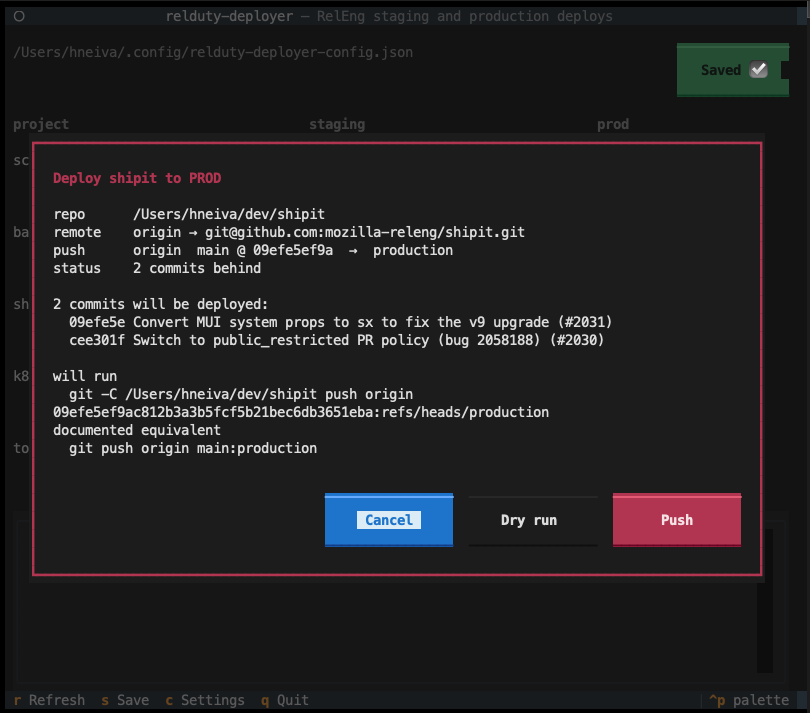
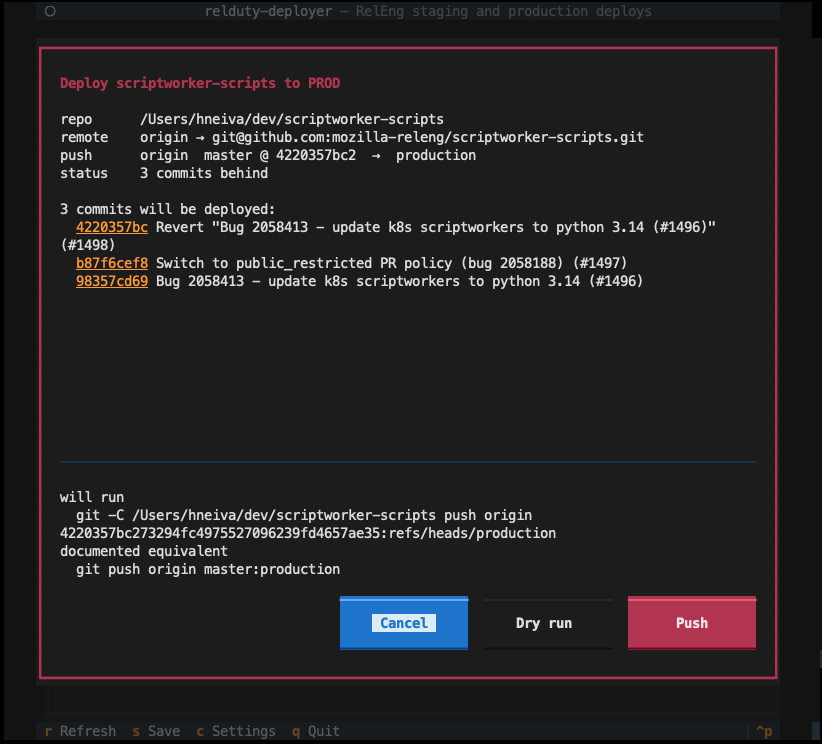
Refresh the screenshots and add the commit view
The old images predated the clickable hashes, the divider and the footer, so the
confirmation no longer looked like the dialog it was documenting. All three are
retaken and a fourth shows one commit in full.

The new confirmation is scriptworker-scripts rather than shipit, which made two
lines wrong: the caption, and a sentence naming the `main:production` spelling
where this project uses master. The wording no longer names a branch, so shooting
it against another project will not date it a second time.

The prose around the images is shorter on purpose. It had drifted into explaining
the implementation — that the command sits outside the scrolling region, why both
forms of the command are shown, where Cancel's focus goes — which is a description
of the code rather than of the screen. A reader wants to know what they are looking
at; this is the place for the reasoning, not the README.

The commit view carries a real author's name and address, since it renders a real
commit from a public repository.

diff --git a/README.md b/README.md
@@ -146,20 +146,22 @@ moment it must refuse one, and unequal counts are what make that transposition d
 
 ## Screenshots
 
-The dashboard after a refresh. Each row is a project and each cell is an environment, so the
-question the rotation actually asks — is there anything to deploy — is answered by the
-colours before you read a single number. balrog shows versions rather than commit counts
-because it is the one status-only project.
+The dashboard after a refresh. One row per project, one cell per environment, so the only
+question the rotation asks — is there anything to deploy — is answered by the colours.
+balrog shows versions instead of commit counts, since it is the one project this tool
+reports on rather than deploys.
 
 ![The deploy dashboard](screenshots/home.png)
 
-Pressing a yellow button opens the confirmation rather than deploying. It lists the commits
-that would ship and both forms of the command: the resolved sha that will actually run, and
-the `main:production` spelling the runbooks use. Those are the same push, and showing both is
-what makes the sha version auditable instead of surprising. Cancel holds the initial focus,
-which is deliberate on a dialog that can deploy production with one key.
+Pressing a yellow button asks first. You get the commits that would ship, the command that
+will run, and the branch-name version of it from the runbooks.
 
-![The deploy confirmation for shipit to prod](screenshots/deploy.png)
+![The deploy confirmation for scriptworker-scripts to prod](screenshots/deploy.png)
+
+Click any hash to read that commit — message, changed files, diff — without leaving the
+dialog.
+
+![One commit in full](screenshots/commit_detail.png)
 
 `c` opens settings: where each clone lives, which remote deploys, and whether to show the
 project.
